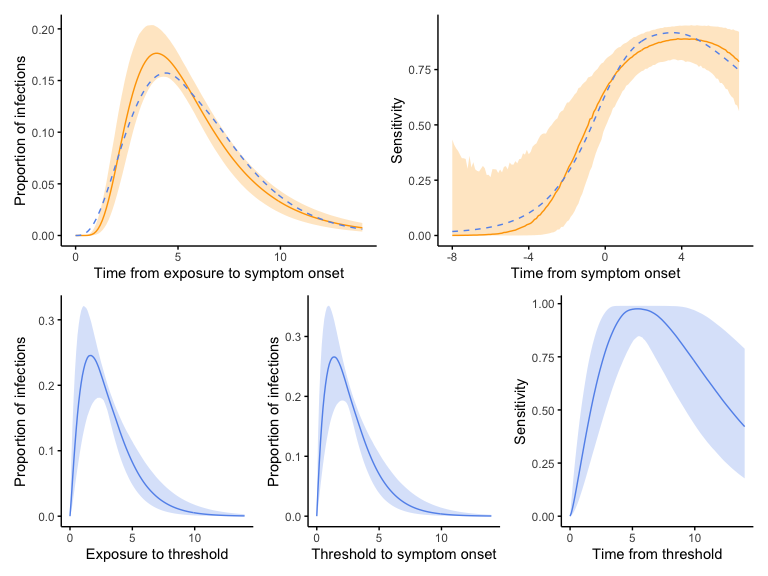
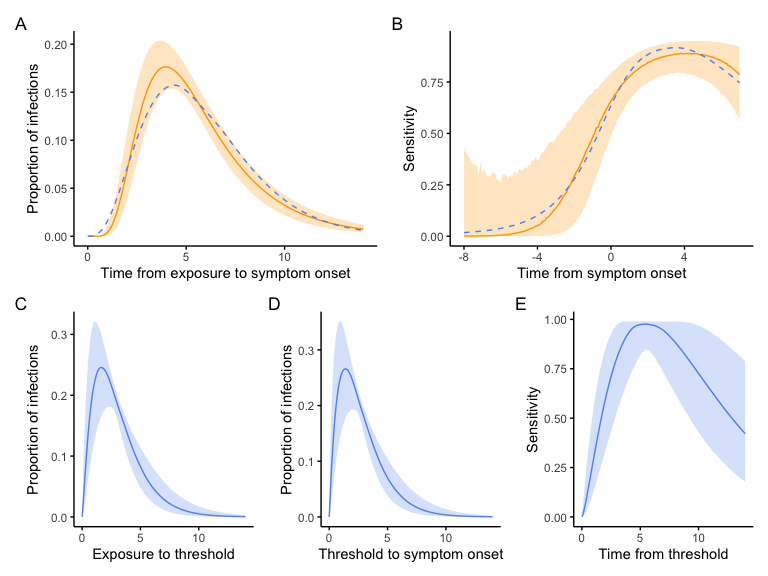
update figures

diff --git a/README.md b/README.md
@@ -366,9 +366,10 @@ incubation_plot <- incubation_plot +
   geom_line(data = incubation_inferred, aes(t, m), color = "cornflower blue", lty = 2) 
 
 shenzhen_sensitivity_p <- shenzhen_sensitivity_p +
-    geom_line(data = sensitivity_summ, aes(t, m), color = "cornflower blue", lty = 2)
+  geom_line(data = sensitivity_summ, aes(t, m), color = "cornflower blue", lty = 2)
 
-  (incubation_plot | shenzhen_sensitivity_p) / (exposure_to_threshold | threshold_to_symtpoms |  inferred_sensitivity)
+(incubation_plot | shenzhen_sensitivity_p) / (exposure_to_threshold | threshold_to_symtpoms |  inferred_sensitivity) + 
+  plot_annotation(tag_levels = 'A')
 ```
 
 <img src="man/figures/README-fig-1-1.png" width="100%" />
@@ -420,11 +421,14 @@ d %>%
 
 ``` r
 d_summ %>%
+  filter(additional_quarantine_time == 0, test_time > 0) -> d_test_time
+f2 <- d_summ %>%
+  filter(test_time > 0) %>%
   ggplot(aes(x = qt, y = m_p, color = as.factor(test_time))) +
   geom_line() +
-  geom_ribbon(aes(ymin = lcl_p, ymax = ucl_p, fill = as.factor(test_time)), alpha = 0.25, color = NA) +
-  geom_line(aes(x = qt, y = m_no_test), color = "black", lty = 2) +
-  geom_ribbon(aes(ymin = lcl_n, ymax = ucl_n), alpha = 0.25, color = NA) +
+  geom_point(data = d_test_time) +
+  geom_line(data = d_summ, aes(x = qt, y = m_no_test), color = "black", lty = 2) +
+  #  geom_ribbon(data = d_summ, aes(ymin = lcl_n, ymax = ucl_n), alpha = 0.25, color = NA) +
   scale_x_continuous(breaks = 0:14, limits = c(0, 14)) +
   geom_hline(yintercept = c(0.089, 0.022), lty = 3) +
   theme_minimal() +
@@ -434,6 +438,83 @@ d_summ %>%
        fill = "Day test sample \nwas collected") +
   theme(panel.grid.minor = element_blank(),
         legend.position = "bottom")
+```
+
+``` r
+f2_3 <- d_summ %>%
+  filter(test_time == 3) %>%
+  ggplot(aes(x = qt, y = m_p, color = as.factor(test_time))) +
+  geom_line() +
+  geom_point(data = d_test_time %>% filter(test_time == 3)) +
+  geom_ribbon(aes(ymin = lcl_p, ymax = ucl_p, fill = as.factor(test_time)), alpha = 0.25, color = NA) +
+  geom_line(aes(x = qt, y = m_no_test), color = "black", lty = 2) +
+  scale_x_continuous(breaks = 0:14, limits = c(0, 14)) +
+  theme_minimal() +
+  labs(x = "",
+       y = "",
+       color = "Day test sample \nwas collected",
+       fill = "Day test sample \nwas collected") +
+  theme(panel.grid.minor = element_blank(),
+        legend.position = "none")
+```
+
+``` r
+f2_5 <- d_summ %>%
+  filter(test_time == 5) %>%
+  ggplot(aes(x = qt, y = m_p, color = as.factor(test_time))) +
+  geom_line(color = "#7CAE00") +
+  geom_point(data = d_test_time %>% filter(test_time == 5), color = "#7CAE00") +
+  geom_ribbon(aes(ymin = lcl_p, ymax = ucl_p, fill = as.factor(test_time)), fill = "#7CAE00", alpha = 0.25, color = NA) +
+  geom_line(aes(x = qt, y = m_no_test), color = "black", lty = 2) +
+  scale_x_continuous(breaks = 0:14, limits = c(0, 14)) +
+  theme_minimal() +
+  labs(x = "",
+       y = "",
+       color = "Day test sample \nwas collected",
+       fill = "Day test sample \nwas collected") +
+  theme(panel.grid.minor = element_blank(),
+        legend.position = "bottom")
+```
+
+``` r
+f2_7 <- d_summ %>%
+  filter(test_time == 7) %>%
+  ggplot(aes(x = qt, y = m_p, color = as.factor(test_time))) +
+  geom_line(color = "#00BFC4") +
+  geom_point(data = d_test_time %>% filter(test_time == 7), color = "#00BFC4") +
+  geom_ribbon(aes(ymin = lcl_p, ymax = ucl_p, fill = as.factor(test_time)), fill = "#00BFC4", alpha = 0.25, color = NA) +
+  geom_line(aes(x = qt, y = m_no_test), color = "black", lty = 2) +
+  scale_x_continuous(breaks = 0:14, limits = c(0, 14)) +
+  theme_minimal() +
+  labs(x = "",
+       y = "",
+       color = "Day test sample \nwas collected",
+       fill = "Day test sample \nwas collected") +
+  theme(panel.grid.minor = element_blank(),
+        legend.position = "bottom")
+```
+
+``` r
+f2_10 <- d_summ %>%
+  filter(test_time == 10) %>%
+  ggplot(aes(x = qt, y = m_p, color = as.factor(test_time))) +
+  geom_line(color = "#C77CFF") +
+  geom_point(data = d_test_time %>% filter(test_time == 10), color = "#C77CFF") +
+  geom_ribbon(aes(ymin = lcl_p, ymax = ucl_p, fill = as.factor(test_time)), fill = "#C77CFF", alpha = 0.25, color = NA) +
+  geom_line(aes(x = qt, y = m_no_test), color = "black", lty = 2) +
+  scale_x_continuous(breaks = 0:14, limits = c(0, 14)) +
+  theme_minimal() +
+  labs(x = "Time from exposure to quarantine exit",
+       y = "",
+       color = "Day test sample \nwas collected",
+       fill = "Day test sample \nwas collected") +
+  theme(panel.grid.minor = element_blank(),
+        legend.position = "bottom")
+```
+
+``` r
+f2 + (f2_3 / f2_5 / f2_7 / f2_10) +
+  plot_layout(widths = c(2, 1)) 
 ```
 
 <img src="man/figures/README-fig2-1.png" width="100%" />
